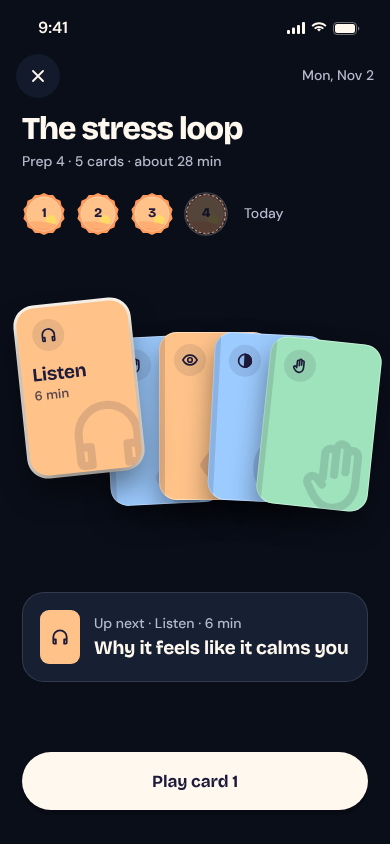
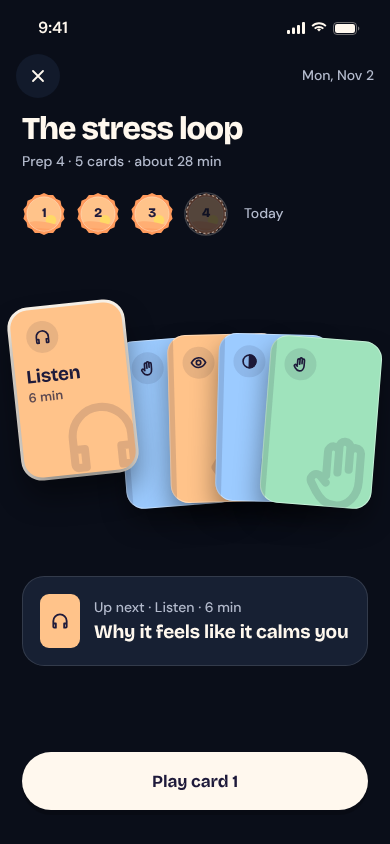
Cook: round 2 onboarding fixes
Claude-Session: https://claude.ai/code/session_01DZ7ApmrncqosUtJWfkxY6v

diff --git a/cook/site/screens/023-session-hand.html b/cook/site/screens/023-session-hand.html
@@ -28,7 +28,7 @@
 .pc.up .m{font-size:13px}
 .play .pc{animation:deal 760ms var(--settle) both;animation-delay:calc(300ms + var(--k) * 130ms)}
 @keyframes deal{from{opacity:0;transform:translate(0px,460px) rotate(0deg)}35%{opacity:1}to{opacity:1;transform:translate(var(--x),var(--y)) rotate(var(--r))}}
-.next{position:absolute;top:592px;left:var(--gutter);right:var(--gutter);display:flex;gap:14px;align-items:center}
+.next{position:absolute;top:576px;left:var(--gutter);right:var(--gutter);display:flex;gap:14px;align-items:center}
 .mini{width:40px;height:54px;border-radius:9px;background:var(--face);color:#1E1A3A;display:grid;place-items:center;flex:none}
 .mini svg{width:20px;height:20px}
 </style>
@@ -60,7 +60,7 @@ document.getElementById('stamps').innerHTML = [1,2,3].map(n => DX.badge({kind:'p
 const cards = [
   ['apricot','headphones','Listen','6 min'], ['sky','hand','Try','5 min'], ['apricot','eye','Reveal','6 min'],
   ['sky','myth','Myth or fact','5 min'], ['mint','hand','Try','6 min']];
-document.getElementById('fan').innerHTML = cards.map((c, k) => `<div class="pc f-${c[0]} ${k === 0 ? 'up' : ''}" style="--x:${k === 0 ? -116 : (k - 2) * 52 + 20}px;--r:${k === 0 ? -6 : (k - 2) * 3}deg;--y:${k === 0 ? -26 : [10,6,2,4,10][k]}px;--k:${k};z-index:${k === 0 ? 9 : k + 1}">
+document.getElementById('fan').innerHTML = cards.map((c, k) => `<div class="pc f-${c[0]} ${k === 0 ? 'up' : ''}" style="--x:${k === 0 ? -122 : (k - 1) * 48 - 18}px;--r:${k === 0 ? -6 : (k - 2.5) * 3}deg;--y:${k === 0 ? -24 : [0,8,4,4,8][k]}px;--k:${k};z-index:${k === 0 ? 9 : k + 1}">
   <span class="ic">${ic(c[1])}</span>${k === 0 ? `<b>${c[2]}</b><span class="m">${c[3]}</span>` : ''}<span class="big">${ic(c[1])}</span></div>`).join('');
 </script>
 </body></html>

diff --git a/cook/site/screens/040-milestone-share.html b/cook/site/screens/040-milestone-share.html
@@ -10,7 +10,7 @@
   .sc { position: relative; width: 212px; height: 376px; border-radius: 26px; overflow: hidden; color: #1E1A3A;
     background: linear-gradient(180deg, #FFB98A 0%, #FFD7AE 46%, #FFE9CF 70%);
     box-shadow: 0 18px 40px rgba(14,11,43,.22), 0 2px 0 rgba(14,11,43,.06); padding: 16px; display: flex; flex-direction: column; align-items: center; }
-  .sc .sun { position: absolute; left: 50%; top: 52px; width: 128px; height: 128px; margin-left: -64px; border-radius: 99px; background: radial-gradient(circle at 40% 35%, #FFF6C8, #FFD25E 70%); opacity: .9; }
+  .sc .sun { position: absolute; left: 132px; top: 196px; width: 64px; height: 64px; border-radius: 99px; background: radial-gradient(circle at 40% 35%, #FFF6C8, #FFD25E 70%); opacity: .9; }
   .sc .hills { position: absolute; left: 0; right: 0; bottom: 0; width: 212px; height: 150px; display: block; }
   .sc .top { align-self: stretch; display: flex; justify-content: space-between; align-items: center; position: relative; }
   .sc .ini { width: 30px; height: 30px; border-radius: 99px; background: #1E1A3A; color: #FFF8EE; display: grid; place-items: center; font: 800 15px/1 var(--display); }
